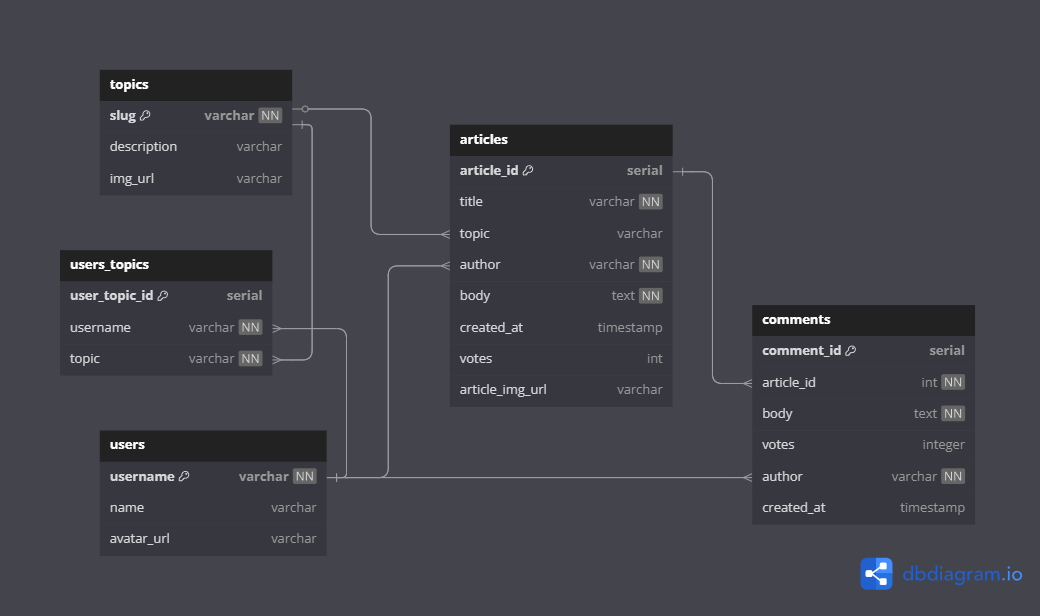
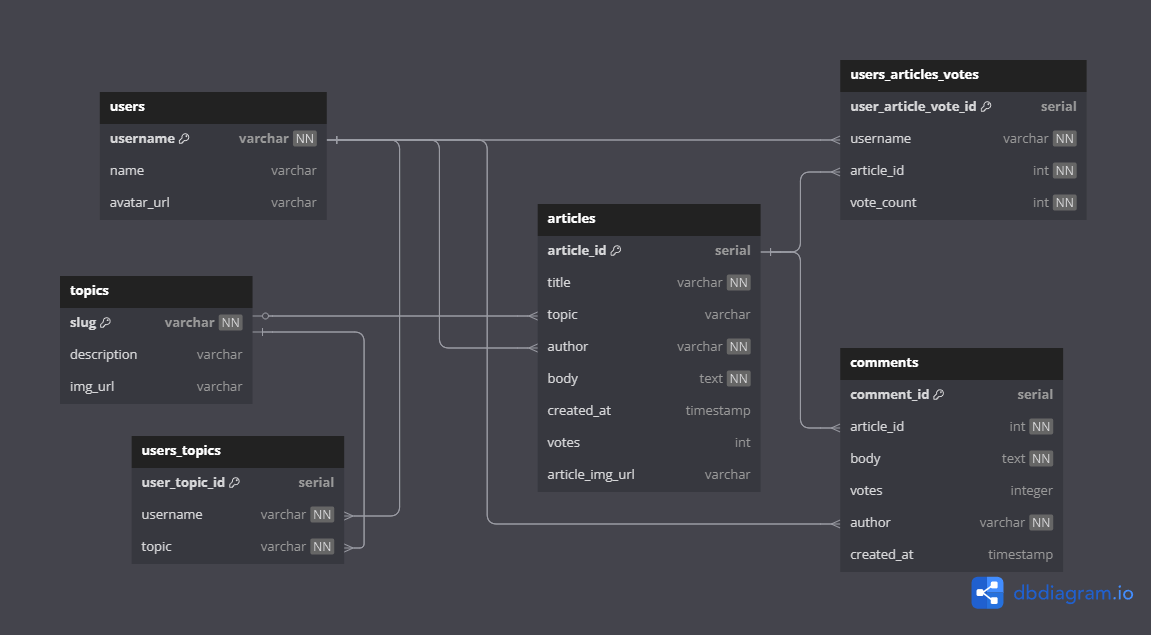
Adding users_articles_votes junction table, seed data and ERD update

diff --git a/db/data/test-data/users-articles-votes.js b/db/data/test-data/users-articles-votes.js
@@ -1,0 +1,112 @@
+module.exports = [
+  {
+    username: "butter_bridge",
+    article_id: "1",
+    vote_count: "1",
+  },
+  {
+    username: "butter_bridge",
+    article_id: "2",
+    vote_count: "1",
+  },
+  {
+    username: "butter_bridge",
+    article_id: "3",
+    vote_count: "1",
+  },
+  {
+    username: "butter_bridge",
+    article_id: "4",
+    vote_count: "1",
+  },
+  {
+    username: "butter_bridge",
+    article_id: "5",
+    vote_count: "1",
+  },
+  {
+    username: "icellusedkars",
+    article_id: "2",
+    vote_count: "1",
+  },
+  {
+    username: "icellusedkars",
+    article_id: "3",
+    vote_count: "1",
+  },
+  {
+    username: "icellusedkars",
+    article_id: "4",
+    vote_count: "1",
+  },
+  {
+    username: "icellusedkars",
+    article_id: "5",
+    vote_count: "1",
+  },
+  {
+    username: "rogersop",
+    article_id: "3",
+    vote_count: "1",
+  },
+  {
+    username: "rogersop",
+    article_id: "4",
+    vote_count: "1",
+  },
+  {
+    username: "rogersop",
+    article_id: "5",
+    vote_count: "-1",
+  },
+  {
+    username: "rogersop",
+    article_id: "6",
+    vote_count: "-1",
+  },
+  {
+    username: "lurker",
+    article_id: "7",
+    vote_count: "1",
+  },
+  {
+    username: "lurker",
+    article_id: "8",
+    vote_count: "1",
+  },
+  {
+    username: "lurker",
+    article_id: "5",
+    vote_count: "-1",
+  },
+  {
+    username: "lurker",
+    article_id: "6",
+    vote_count: "-1",
+  },
+  {
+    username: "rogersop",
+    article_id: "2",
+    vote_count: "1",
+  },
+  {
+    username: "lurker",
+    article_id: "4",
+    vote_count: "1",
+  },
+  {
+    username: "butter_bridge",
+    article_id: "6",
+    vote_count: "1",
+  },
+  {
+    username: "butter_bridge",
+    article_id: "8",
+    vote_count: "1",
+  },
+  {
+    username: "butter_bridge",
+    article_id: "10",
+    vote_count: "-1",
+  },
+];

diff --git a/db/data/development-data/users-articles-votes.js b/db/data/development-data/users-articles-votes.js
@@ -1,0 +1,112 @@
+module.exports = [
+  {
+    username: "tickle122",
+    article_id: "1",
+    vote_count: "1",
+  },
+  {
+    username: "tickle122",
+    article_id: "2",
+    vote_count: "1",
+  },
+  {
+    username: "tickle122",
+    article_id: "3",
+    vote_count: "1",
+  },
+  {
+    username: "tickle122",
+    article_id: "4",
+    vote_count: "1",
+  },
+  {
+    username: "tickle122",
+    article_id: "5",
+    vote_count: "1",
+  },
+  {
+    username: "grumpy19",
+    article_id: "2",
+    vote_count: "1",
+  },
+  {
+    username: "grumpy19",
+    article_id: "3",
+    vote_count: "1",
+  },
+  {
+    username: "grumpy19",
+    article_id: "4",
+    vote_count: "1",
+  },
+  {
+    username: "grumpy19",
+    article_id: "5",
+    vote_count: "1",
+  },
+  {
+    username: "happyamy2016",
+    article_id: "3",
+    vote_count: "1",
+  },
+  {
+    username: "happyamy2016",
+    article_id: "4",
+    vote_count: "1",
+  },
+  {
+    username: "happyamy2016",
+    article_id: "5",
+    vote_count: "-1",
+  },
+  {
+    username: "happyamy2016",
+    article_id: "6",
+    vote_count: "-1",
+  },
+  {
+    username: "cooljmessy",
+    article_id: "7",
+    vote_count: "1",
+  },
+  {
+    username: "cooljmessy",
+    article_id: "8",
+    vote_count: "1",
+  },
+  {
+    username: "cooljmessy",
+    article_id: "5",
+    vote_count: "-1",
+  },
+  {
+    username: "cooljmessy",
+    article_id: "6",
+    vote_count: "-1",
+  },
+  {
+    username: "jessjelly",
+    article_id: "2",
+    vote_count: "1",
+  },
+  {
+    username: "jessjelly",
+    article_id: "4",
+    vote_count: "1",
+  },
+  {
+    username: "jessjelly",
+    article_id: "6",
+    vote_count: "1",
+  },
+  {
+    username: "jessjelly",
+    article_id: "8",
+    vote_count: "1",
+  },
+  {
+    username: "jessjelly",
+    article_id: "10",
+    vote_count: "-1",
+  },
+];

diff --git a/db/seeds/rebuild-tables.js b/db/seeds/rebuild-tables.js
@@ -4,6 +4,9 @@ exports.dropTables = () => {
   return db
     .query(`DROP TABLE IF EXISTS comments;`)
     .then(() => {
+      return db.query(`DROP TABLE IF EXISTS users_articles_votes;`);
+    })
+    .then(() => {
       return db.query(`DROP TABLE IF EXISTS articles;`);
     })
     .then(() => {
@@ -35,7 +38,8 @@ exports.createTables = () => {
       return db.query(`CREATE TABLE users_topics(
       user_topic_id SERIAL PRIMARY KEY,
       username VARCHAR(20) NOT NULL REFERENCES users(username),
-      topic VARCHAR(20) NOT NULL REFERENCES topics(slug));`);
+      topic VARCHAR(20) NOT NULL REFERENCES topics(slug),
+      UNIQUE (username, topic));`);
     })
     .then(() => {
       return db.query(`CREATE TABLE articles(
@@ -47,6 +51,14 @@ exports.createTables = () => {
       created_at TIMESTAMP DEFAULT CURRENT_TIMESTAMP,
       votes INT DEFAULT 0,
       article_img_url VARCHAR(1000));`);
+    })
+    .then(() => {
+      return db.query(`CREATE TABLE users_articles_votes(
+      user_article_vote_id SERIAL PRIMARY KEY,
+      username VARCHAR(20) NOT NULL REFERENCES users(username),
+      article_id INT NOT NULL REFERENCES articles(article_id),
+      vote_count INT NOT NULL,
+      UNIQUE (username, article_id));`);
     })
     .then(() => {
       return db.query(`CREATE TABLE comments(

diff --git a/db/seeds/seed.js b/db/seeds/seed.js
@@ -9,6 +9,7 @@ const seed = ({
   articleData,
   commentData,
   userTopicData,
+  userArticleVoteData,
 }) => {
   return dropTables()
     .then(() => {
@@ -43,7 +44,6 @@ const seed = ({
         return [username, topic];
       });
       const UserTopicInsertString = format(
-        // FIX THIS IN BRACKETS
         `INSERT INTO users_topics
                 (username, topic) 
         VALUES %L RETURNING *`,
@@ -91,6 +91,20 @@ const seed = ({
         formattedComments
       );
       return db.query(commentInsertString);
+    })
+    .then(() => {
+      const formattedUsersArticlesVotes = userArticleVoteData.map(
+        ({ username, article_id, vote_count }) => {
+          return [username, article_id, vote_count];
+        }
+      );
+      const UserArticleVoteInsertString = format(
+        `INSERT INTO users_articles_votes
+                (username, article_id, vote_count) 
+        VALUES %L RETURNING *`,
+        formattedUsersArticlesVotes
+      );
+      return db.query(UserArticleVoteInsertString);
     });
 };
 module.exports = seed;

diff --git a/db/data/development-data/index.js b/db/data/development-data/index.js
@@ -3,3 +3,4 @@ exports.commentData = require("./comments.js");
 exports.topicData = require("./topics.js");
 exports.userData = require("./users.js");
 exports.userTopicData = require("./users-topics.js");
+exports.userArticleVoteData = require("./users-articles-votes.js");

diff --git a/db/data/test-data/index.js b/db/data/test-data/index.js
@@ -3,3 +3,4 @@ exports.commentData = require("./comments.js");
 exports.topicData = require("./topics.js");
 exports.userData = require("./users.js");
 exports.userTopicData = require("./users-topics.js");
+exports.userArticleVoteData = require("./users-articles-votes.js");
